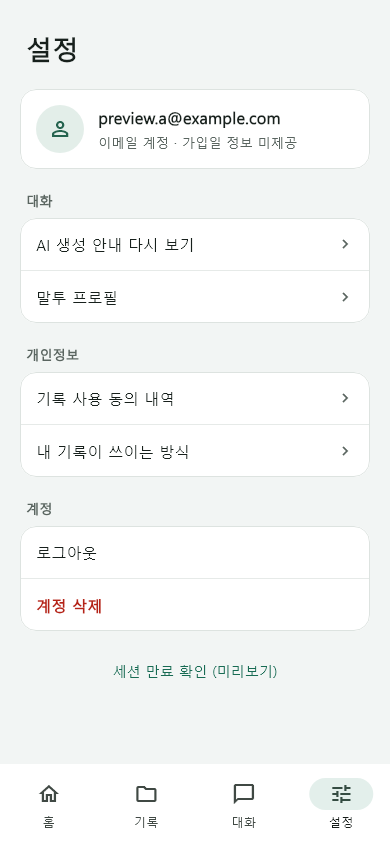
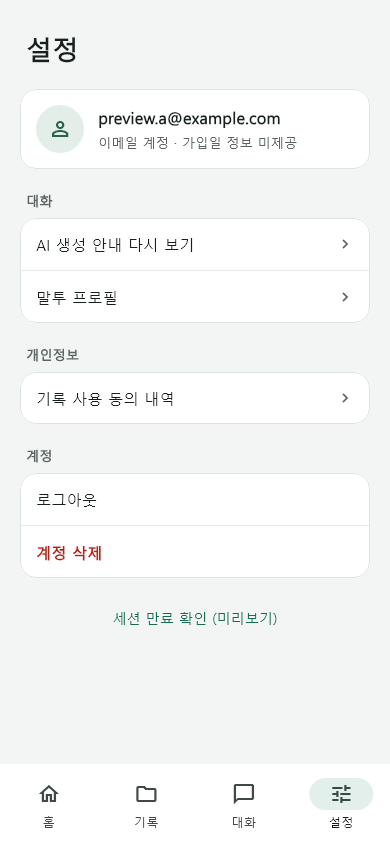
docs(mobile): refresh SC-12 settings screenshots (#103)

diff --git a/mobile/SC12.md b/mobile/SC12.md
@@ -34,7 +34,7 @@
 
 ## 검증
 
-2026-11-23 메뉴 삭제 후 정적 분석에서 문제 없음, 설정 화면 테스트 4개 통과, 변경 Dart 파일 포맷 확인 및 `git diff --check` 통과를 확인했습니다. 같은 날 main(#72 기록 관리, #127)으로 리베이스하며 홈 계정 시트의 계정 삭제를 SC-12 계정 삭제 항목으로 옮겼고, `test/record_deletion_test.dart`의 계정 삭제 테스트를 SC-12 경로로 갱신했습니다. 정적 분석 문제 없음, `flutter test --no-pub` 전체 287개 통과를 확인했습니다. 웹 빌드는 다시 실행하지 않았습니다. 아래 전체 테스트·웹 빌드·캡처 결과는 최초 구현 당시 기록입니다.
+2026-11-23 메뉴 삭제 후 정적 분석에서 문제 없음, 설정 화면 테스트 4개 통과, 변경 Dart 파일 포맷 확인 및 `git diff --check` 통과를 확인했습니다. 같은 날 main(#72 기록 관리, #127)으로 리베이스하며 홈 계정 시트의 계정 삭제를 SC-12 계정 삭제 항목으로 옮겼고, `test/record_deletion_test.dart`의 계정 삭제 테스트를 SC-12 경로로 갱신했습니다. 정적 분석 문제 없음, `flutter test --no-pub` 전체 287개 통과를 확인했습니다. 웹 빌드는 다시 실행하지 않았습니다. 아래 2026-11-09 전체 테스트·웹 빌드 결과는 최초 구현 당시 기록입니다.
 
 2026-11-09, 합성 계정·위젯 환경에서 확인했습니다. 실제 인증·서버·삭제 실행 또는 Android/iOS 실기기 검증이 아닙니다.
 
@@ -45,10 +45,17 @@
 - `flutter build web --no-pub --dart-define-from-file=config/dev.local.json`: 성공.
 - 변경 Dart 파일의 포맷 확인 및 `git diff --check`: 통과.
 
-아래 캡처는 2026-11-09 기록으로, 메뉴 삭제와 계정 삭제 연결 전 화면입니다. 현재 메뉴 구성은 위 표를 기준으로 확인합니다. 화면 캡처는 390×844 논리 크기, Windows 맑은 고딕과 Material Icons를 별도로 로드한 위젯 렌더링입니다. 앱 테마에 새 글꼴 의존성은 추가하지 않았습니다. 계정은 합성 미리보기이며 가입일·동의 건수를 꾸며 넣지 않았습니다.
+2026-11-23 현재 코드(메뉴 삭제 및 계정 삭제 흐름 연결 후)로 캡처 6장을 갱신했습니다. 실제 `ReplicaApp`에서 홈 계정 버튼으로 진입했으며, 390×844 논리 크기로 Windows 맑은 고딕과 Material Icons를 테스트에 로드해 위젯을 렌더링했습니다. 앱 테마나 글꼴 의존성은 변경하지 않았습니다.
+
+합성 미리보기 계정으로 설정·동의 내역·AI 안내·로그아웃 확인·계정 삭제 확인을 촬영했습니다. 삭제 미지원 화면은 실제 인증 대신 비미리보기 상태를 반환하는 합성 인증 객체와 미리보기 기록 서비스를 조합해 재현했습니다. 서버 인증·로그아웃·삭제 요청은 실행하지 않았습니다. 가입일·동의 건수를 임의 생성하지 않았습니다.
+
+캡처용 위젯 테스트 1개가 통과했고, 6장 모두 한글·아이콘·줄바꿈·화면 잘림을 육안 확인했습니다. 실제 기기 화면 캡처나 서버 연동 검증은 아닙니다.
 
 - [설정 화면](docs/screenshots/issue103/sc12-settings.png)
 - [동의 내역 미연결 안내](docs/screenshots/issue103/sc12-consents-unavailable.png)
+- [AI 생성 안내 재열람](docs/screenshots/issue103/sc12-ai-disclosure.png)
+- [로그아웃 확인](docs/screenshots/issue103/sc12-signout-confirmation.png)
+- [계정 삭제 확인 — 미리보기](docs/screenshots/issue103/sc12-delete-confirmation.png)
 - [계정 삭제 미지원 안내](docs/screenshots/issue103/sc12-delete-unavailable.png)
 
 ## AI 활용·검토
